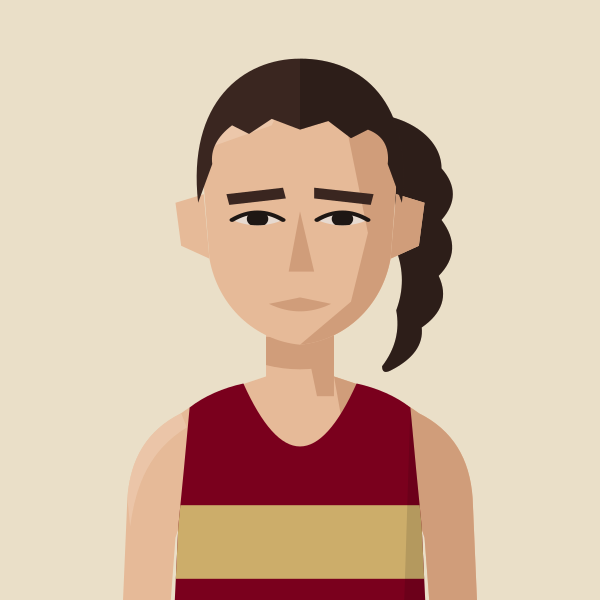
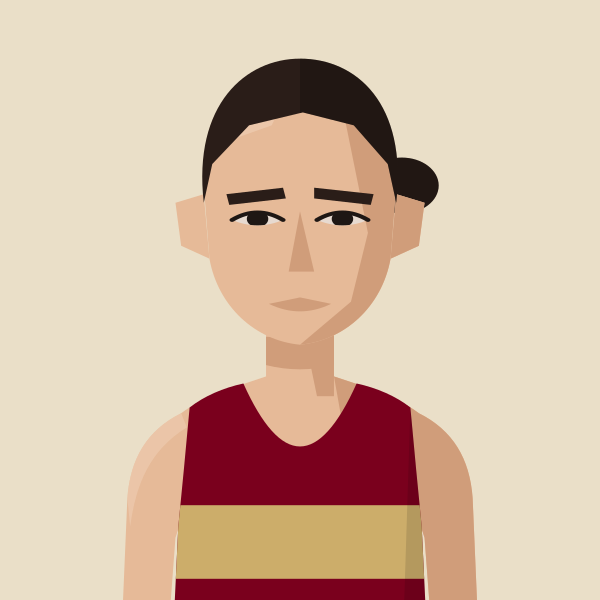
Alexandra Barbour: straight dark hair in a tight bun
Claude-Session: https://claude.ai/code/session_01MgmDWhFqnSSnP4iBLKXUZC

diff --git a/files/index.html b/files/index.html
@@ -577,7 +577,7 @@ add('kitty-shepherd-cross','BEL','Kitty Shepherd-Cross','Kitty Shepherd Cross');
 return m;})();
 // Athlete header figure: superstar portrait if we have one, else a grey runner in the club vest, else the plain vest icon
 // Changes whenever any portrait changes (set by tools/build_og.py), so browsers fetch fresh images instead of old cached ones
-const PORTRAIT_V='5fb46e94';
+const PORTRAIT_V='22cb4089';
 const AthletePortrait=({name,club,w,fill,onClick})=>{const[failed,setFailed]=useState(false);const pk=PORTRAITS[normalizeNameForCompare(name).replace(/\s*\([^)]*\)$/,'')];const file=pk&&pk.club===club?pk.file:null;const src=file?`/portraits/athletes/${file}.svg?v=${PORTRAIT_V}`:PORTRAIT_CLUBS.has(club)?`/portraits/clubs/${club.replace(/\//g,'').replace(/&/g,'and')}.svg?v=${PORTRAIT_V}`:null;if(!src||failed)return<div onClick={onClick} className={onClick?'cursor-pointer':''}><ClubShield club={club} size={w}/></div>;const h=Math.round(w*148/126),ih=Math.round(w*1.4);if(fill)return<div onClick={onClick} className="cursor-pointer" style={{alignSelf:'stretch',minHeight:h,aspectRatio:'126 / 148',flexShrink:0,position:'relative',borderRadius:4,overflow:'hidden'}}><img src={src} alt={file?`Portrait of ${name.replace(/\s*\([^)]*\)$/,'')}`:`Runner in ${CLUBS[club]?.name||club} vest`} style={{position:'absolute',top:0,left:0,display:'block',width:'100%',height:'auto'}} onError={()=>setFailed(true)}/></div>;return<div style={{width:w,height:h,borderRadius:4,overflow:'hidden',flexShrink:0}}><img src={src} alt={file?`Portrait of ${name.replace(/\s*\([^)]*\)$/,'')}`:`Runner in ${CLUBS[club]?.name||club} vest`} width={w} height={ih} style={{display:'block',width:w,height:ih}} onError={()=>setFailed(true)}/></div>;};
 const getClubVestSvg=(club)=>{
   const p="M3 0 L6 0 Q7 4 10 5 Q13 4 14 0 L17 0 L17 20 L3 20 Z";

diff --git a/tools/gen_portraits.py b/tools/gen_portraits.py
@@ -129,6 +129,8 @@ HAIR["tuftrecede"] = '<path d="M65,100 L62,80 L66,62 L72,50 L80,44 L84,34 L93,38
 HAIR["messyfringe"] = '<path d="M63,102 L59,76 L62,58 L70,46 L79,41 L82,30 L92,33 L99,24 L107,31 L116,26 L121,35 L130,39 L137,51 L141,70 L137,102 L132,86 Q129,74 122,72 L116,79 L110,74 L102,81 L96,75 L88,80 L83,73 Q72,76 68,86 Z"/>'
 HAIR["wavyback"] = '<path d="M64,108 C60,58 80,38 100,38 C121,38 140,58 136,108 L131,88 Q128,72 117,66 Q108,63 100,64 Q90,63 82,67 Q72,73 69,88 Z"/><path d="M64,96 Q56,104 60,114 Q54,122 60,132 Q56,142 64,148 L68,140 Q64,132 67,124 Q63,116 67,108 Z"/><path d="M136,96 Q144,104 140,114 Q146,122 140,132 Q144,142 136,148 L132,140 Q136,132 133,124 Q137,116 133,108 Z"/>'
 HAIR_BACK["wavyback"] = '<path d="M60,90 C58,54 80,36 100,36 C120,36 142,54 140,90 Q148,104 142,118 Q150,132 140,146 Q144,158 132,160 L68,160 Q56,158 60,146 Q50,132 58,118 Q52,104 60,90 Z"/>'
+HAIR["tightbun"] = HAIR["slick"]
+HAIR_BACK["tightbun"] = '<ellipse cx="136" cy="96" rx="13" ry="13"/>'
 FACIAL = {
     "littletache": '<path d="M89,142 Q100,138.5 111,142 L110,145 Q100,142 90,145 Z"/>',
     "shortbeard": '<path d="M66,112 L74,124 L84,146 L116,146 L126,124 L134,112 L134,180 L66,180 Z" opacity=".6"/><path d="M86,141 L100,138 L114,141 L113,146 L100,143.5 L87,146 Z" opacity=".7"/>',
@@ -502,7 +504,7 @@ W = [
  ("ellie-freeden","KEN","Ellie Freeden",dict(skin=1,hair="ponytail",hair_colour="#2A1D18"),"near-black ponytail"),
  ("alice-smith","SLH","Alice Smith",dict(skin=2,hair="tousled",hair_colour="grey",glasses=True),"short grey hair, glasses"),
  ("florence-wiggins","THH","Florence Wiggins",dict(skin=1,hair="topknot",hair_colour="mid brown"),"mid brown top knot"),
- ("alexandra-barbour","BEL","Alexandra Barbour",dict(skin=2,hair="wavytie",hair_colour=DB),"dark brown ponytail"),
+ ("alexandra-barbour","BEL","Alexandra Barbour",dict(skin=2,hair="tightbun",hair_colour="#2A1D18"),"straight dark hair pulled back into a tight bun"),
  ("ella-king-powrie","BEL","Ella King Powrie",dict(skin=1,hair="ponytail",hair_colour="blonde"),"blonde ponytail"),
  ("betsy-griffiths","RAN","Betsy Griffiths",dict(skin=1,hair="plait",hair_colour="mid brown",shades=True,shades_col="#1F5F8B"),"mid brown plait, blue sunglasses"),
  ("nicola-douglas","STR","Nicola Douglas",dict(skin=2,hair="bob",hair_colour="blonde"),"short blonde bob"),
